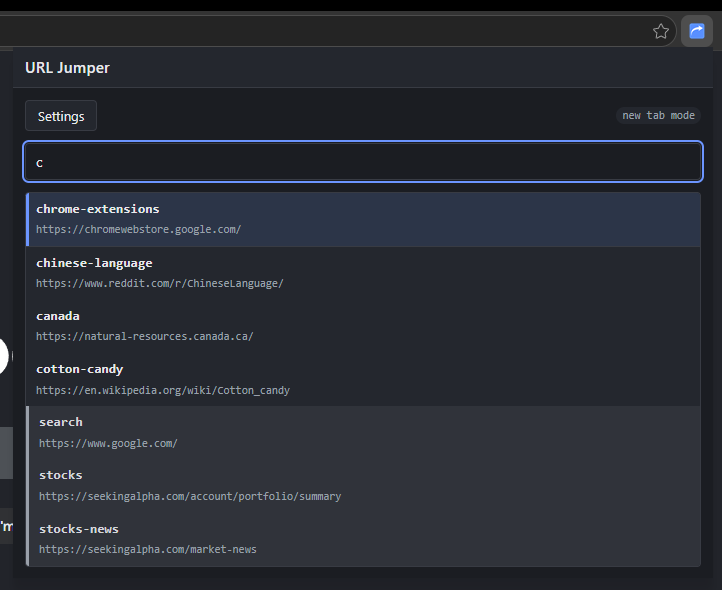
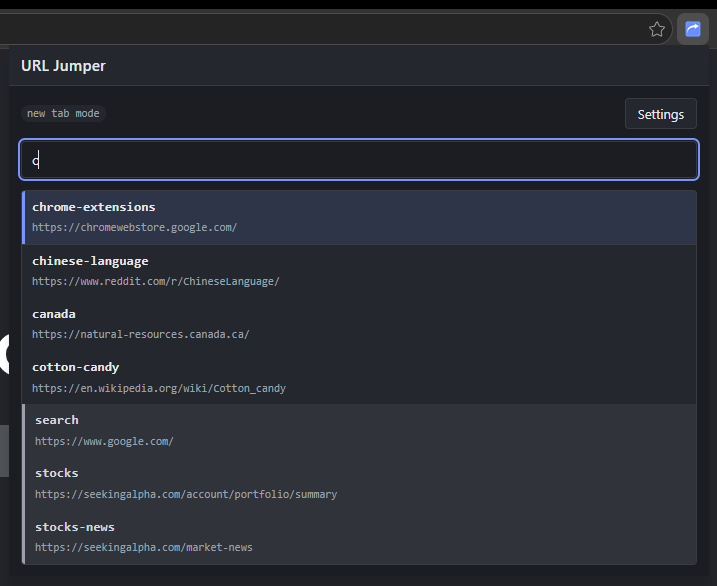
swap tab mode label with settings button

Changed region(s): [[0.0, 0.1843, 0.9819, 0.4915], [0.0, 0.5222, 0.4909, 0.9829], [0.0, 0.0, 1.0, 0.1229]]

diff --git a/src/popup/PopupView.tsx b/src/popup/PopupView.tsx
@@ -225,16 +225,16 @@ export function PopupView({ mode, onOpenSettings }: Props) {
   return (
     <div className="app" onMouseMove={onAppMouseMove}>
       <div className="row">
-        <button type="button" onClick={onOpenSettings} title="Edit mappings in Settings.">
-          Settings
-        </button>
-        <span className="spacer" aria-hidden />
         <span
           className="mode-pill"
           title={mode === 'new' ? 'Enter opens in a new tab' : 'Enter opens in the current tab'}
         >
           {mode === 'new' ? 'new tab mode' : 'same tab mode'}
         </span>
+        <span className="spacer" aria-hidden />
+        <button type="button" onClick={onOpenSettings} title="Edit mappings in Settings.">
+          Settings
+        </button>
       </div>
 
       {showEmptyState ? (

diff --git a/manifest.config.ts b/manifest.config.ts
@@ -3,7 +3,7 @@ import { defineManifest } from '@crxjs/vite-plugin';
 export default defineManifest({
   manifest_version: 3,
   name: 'URL Jumper',
-  version: '1.2.1',
+  version: '1.2.2',
   description:
     'Navigate the web with your own aliases instead of URLs. Type a name, press Enter, jump.',
   action: {
